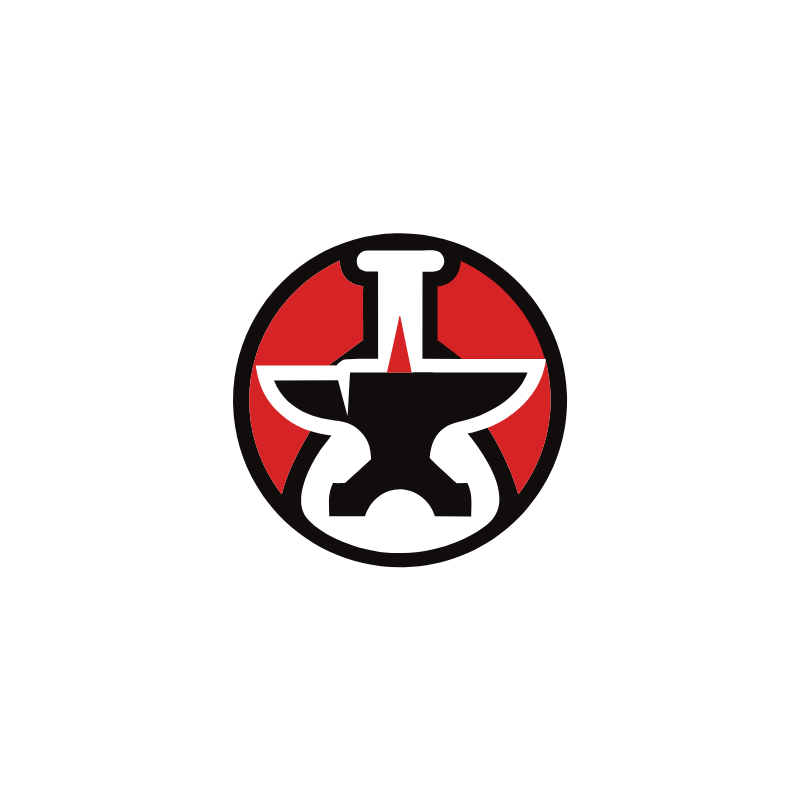
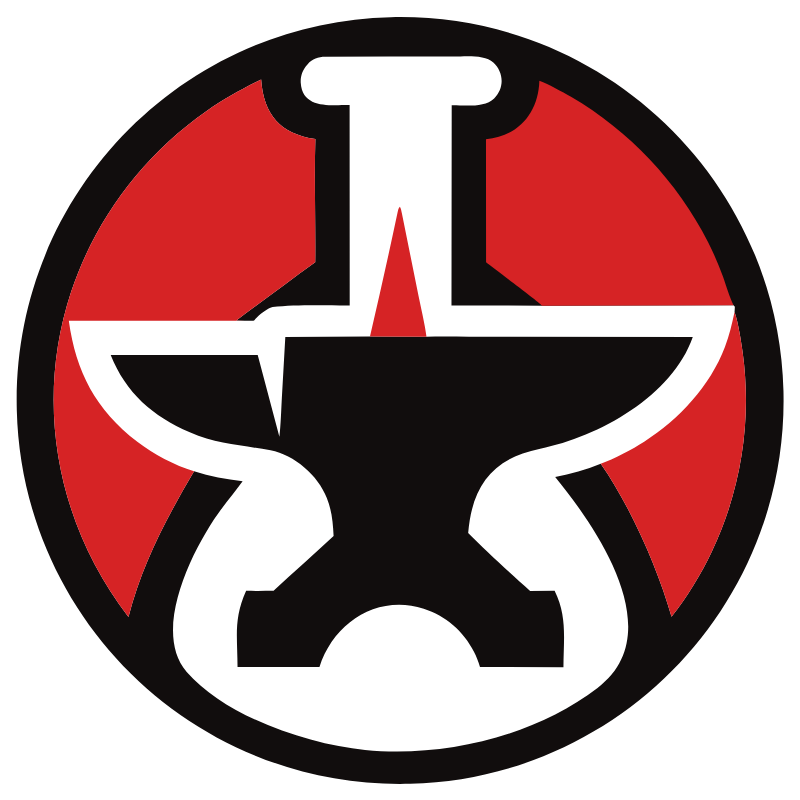
Add PlayForge Labs wordmark and lockups; fix mark padding
Wordmark set in Chakra Petch (SIL OFL), PLAY 400 / FORGE 700 so the
compound name reads as two ideas with emphasis on FORGE. All glyphs are
outlined to paths, so the files carry no font dependency.

8 wordmark + 8 lockup variants: stacked/inline x ondark/onlight x
neutral/red LABS. Red LABS works on either ground; the neutral must match
the ground, since white LABS is invisible on light.

In the stacked lockup LABS is tracked to span exactly the width of
PLAYFORGE. The track is solved arithmetically in makewordmark.py rather
than eyeballed, so it survives a change of type or size.

Also fixes a defect in the previously committed mark: the generated SVG
places the disc at r=428 inside a 2048 viewBox, so the disc filled only
~42% of the frame and every avatar rendered as a small badge floating in
whitespace. Added -tight variants cropping the viewBox to the disc (~96%
fill) and re-rendered all avatar PNGs from them.

Generators committed alongside the output so every derived file can be
rebuilt: makewordmark.py (outlining) and makelockup.py (composition).

Claude-Session: https://claude.ai/code/session_01VQpikmwb7K7sP9jWmUW1g1

diff --git a/brand/tools/makewordmark.py b/brand/tools/makewordmark.py
@@ -1,0 +1,110 @@
+#!/usr/bin/env python3
+"""Build the PlayForge Labs wordmark as OUTLINED SVG (no font dependency).
+
+Type: Chakra Petch (SIL Open Font License). PLAY=400, FORGE=700, LABS=600-ish
+(set from the 700 master, optically tracked). Outlining glyphs into logo
+artwork is permitted under the OFL; the result is artwork, not a font.
+
+Usage: python3 tools/makewordmark.py <regular.ttf> <bold.ttf> <outdir>
+"""
+import sys, os
+from fontTools.ttLib import TTFont
+from fontTools.pens.svgPathPen import SVGPathPen
+from fontTools.pens.boundsPen import BoundsPen
+
+RED, BLACK, WHITE = '#D62325', '#110D0D', '#FFFFFF'
+
+class Face:
+    def __init__(self, path):
+        self.f = TTFont(path)
+        self.gs = self.f.getGlyphSet()
+        self.cmap = self.f.getBestCmap()
+        self.upem = self.f['head'].unitsPerEm
+
+    def run(self, text, size, track=0.0):
+        """Return (list of (d, x_offset), advance_width) in SVG px at `size`."""
+        s = size / self.upem
+        out, x = [], 0.0
+        for ch in text:
+            g = self.cmap[ord(ch)]
+            pen = SVGPathPen(self.gs)
+            self.gs[g].draw(pen)
+            d = pen.getCommands()
+            if d.strip():
+                out.append((d, x))
+            x += self.gs[g].width + track * self.upem
+        return out, x * s, s
+
+    def ink_bounds(self, text):
+        bp = BoundsPen(self.gs)
+        x = 0
+        lo, hi = None, None
+        for ch in text:
+            g = self.cmap[ord(ch)]
+            b = BoundsPen(self.gs); self.gs[g].draw(b)
+            if b.bounds:
+                y0, y1 = b.bounds[1], b.bounds[3]
+                lo = y0 if lo is None else min(lo, y0)
+                hi = y1 if hi is None else max(hi, y1)
+        return lo or 0, hi or 0
+
+def emit(runs, w, h, pad=0.0):
+    """runs: list of (paths, scale, dx, dy, fill)"""
+    body = []
+    for paths, s, dx, dy, fill in runs:
+        for d, gx in paths:
+            body.append(f'<path d="{d}" fill="{fill}" transform="translate({dx + gx*s:.2f},{dy:.2f}) scale({s:.5f},{-s:.5f})"/>')
+    vb = f'{-pad:.2f} {-pad:.2f} {w+pad*2:.2f} {h+pad*2:.2f}'
+    return (f'<svg xmlns="http://www.w3.org/2000/svg" viewBox="{vb}" '
+            f'width="{w+pad*2:.0f}" height="{h+pad*2:.0f}">' + ''.join(body) + '</svg>')
+
+def build(reg, bold, outdir):
+    R, B = Face(reg), Face(bold)
+    SIZE = 200.0
+    _, capy1 = B.ink_bounds('FORGE')
+    cap = capy1 * (SIZE / B.upem)          # cap height in px
+
+    for ground, maintone in (('ondark', WHITE), ('onlight', BLACK)):
+        for labsname, labstone in (('neutral', maintone), ('red', RED)):
+            # ---- stacked ----
+            play, wplay, s1 = R.run('PLAY', SIZE)
+            forge, wforge, s2 = B.run('FORGE', SIZE)
+            # LABS is justified to the exact width of PLAYFORGE so the two
+            # lines lock as one unit. Track is solved, not guessed.
+            LS = SIZE * 0.335
+            target = wplay + wforge
+            base_paths, base_w, s3 = B.run('LABS', LS)
+            solved = (target - base_w) / (len('LABS') - 1) / LS
+            labs, wlabs, s3 = B.run('LABS', LS, solved)
+            wlabs -= solved * LS           # drop trailing track
+            gap = SIZE * 0.085
+            baseline = cap
+            lbase = baseline + LS * 0.92 + gap
+            total_w = max(wplay + wforge, wlabs)
+            total_h = lbase
+            svg = emit([(play, s1, 0, baseline, maintone),
+                        (forge, s2, wplay, baseline, maintone),
+                        (labs, s3, 1.0, lbase, labstone)], total_w, total_h, pad=SIZE*0.04)
+            open(os.path.join(outdir, f'wordmark-stacked-{ground}-{labsname}.svg'), 'w').write(svg)
+
+            # ---- inline ----
+            IS = SIZE
+            play2, wp2, p2s = R.run('PLAY', IS)
+            forge2, wf2, f2s = B.run('FORGE', IS)
+            LS2, LT2 = IS * 0.42, 0.26
+            labs2, wl2, l2s = B.run('LABS', LS2, LT2)
+            wl2 -= LT2 * LS2
+            gap2 = IS * 0.30
+            _, capy_small = B.ink_bounds('LABS')
+            cap_small = capy_small * (LS2 / B.upem)
+            base2 = cap                      # shared cap-height baseline
+            x_labs = wp2 + wf2 + gap2
+            svg2 = emit([(play2, p2s, 0, base2, maintone),
+                         (forge2, f2s, wp2, base2, maintone),
+                         (labs2, l2s, x_labs, base2, labstone)],
+                        x_labs + wl2, cap, pad=SIZE*0.04)
+            open(os.path.join(outdir, f'wordmark-inline-{ground}-{labsname}.svg'), 'w').write(svg2)
+    print('wrote 8 wordmark files to', outdir)
+
+if __name__ == '__main__':
+    build(*sys.argv[1:4])

diff --git a/brand/tools/makelockup.py b/brand/tools/makelockup.py
@@ -1,0 +1,46 @@
+#!/usr/bin/env python3
+"""Compose mark + wordmark into lockup SVGs using nested <svg> elements,
+so neither source is re-derived and both stay editable.
+
+Gap is 0.22 x mark width. Mark height matches the wordmark block height.
+Usage: python3 tools/makelockup.py <branddir>
+"""
+import os, re, sys
+
+def parts(path):
+    s = open(path).read()
+    m = re.search(r'viewBox="([^"]+)"', s)
+    vb = m.group(1)
+    inner = s[s.index('>', s.index('<svg')) + 1:].rsplit('</svg>', 1)[0]
+    x, y, w, h = [float(v) for v in vb.split()]
+    return vb, inner, w, h
+
+def build(brand):
+    wm_dir = os.path.join(brand, 'wordmark')
+    out_dir = os.path.join(brand, 'lockup')
+    os.makedirs(out_dir, exist_ok=True)
+    marks = {'ondark': os.path.join(brand, 'mark', 'mark-full-ondark-tight.svg'),
+             'onlight': os.path.join(brand, 'mark', 'mark-full-tight.svg')}
+    n = 0
+    for ground, mpath in marks.items():
+        mvb, minner, mw, mh = parts(mpath)
+        for layout in ('stacked', 'inline'):
+            for labs in ('neutral', 'red'):
+                wpath = os.path.join(wm_dir, f'wordmark-{layout}-{ground}-{labs}.svg')
+                if not os.path.exists(wpath):
+                    continue
+                wvb, winner, ww, wh = parts(wpath)
+                M = wh                      # mark height == wordmark block height
+                gap = M * 0.22
+                W, H = M + gap + ww, max(M, wh)
+                svg = (f'<svg xmlns="http://www.w3.org/2000/svg" viewBox="0 0 {W:.2f} {H:.2f}" '
+                       f'width="{W:.0f}" height="{H:.0f}">'
+                       f'<svg x="0" y="{(H-M)/2:.2f}" width="{M:.2f}" height="{M:.2f}" viewBox="{mvb}">{minner}</svg>'
+                       f'<svg x="{M+gap:.2f}" y="{(H-wh)/2:.2f}" width="{ww:.2f}" height="{wh:.2f}" viewBox="{wvb}">{winner}</svg>'
+                       f'</svg>')
+                open(os.path.join(out_dir, f'lockup-{layout}-{ground}-{labs}.svg'), 'w').write(svg)
+                n += 1
+    print(f'wrote {n} lockup files to {out_dir}')
+
+if __name__ == '__main__':
+    build(sys.argv[1])

diff --git a/brand/README.md b/brand/README.md
@@ -18,13 +18,17 @@ simplified small cut. Use the right one for the size:
 
 | Size | File |
 |---|---|
-| >= 64px | `mark/mark-full.svg` (light bg) / `mark-full-ondark.svg` (dark bg) |
+| >= 64px | `mark/mark-full-tight.svg` (light bg) / `mark-full-ondark-tight.svg` (dark bg) |
 | <= 48px | `mark/mark-small.svg` / `mark-small-ondark.svg` |
 
 The on-dark variants exist because the black outer ring disappears against a
 dark background; they carry a white ring instead.
 
-Geometry: viewBox 2048x2048, disc centre (1024,1024), radius 428.
+Geometry: the generated source has viewBox 2048x2048 with the disc at centre
+(1024,1024), radius 428 — i.e. the disc fills only ~42% of the frame. The
+`-tight` variants crop the viewBox to the disc (~96% fill) and are what every
+avatar, badge and lockup is rendered from. Use the tight variants; the
+uncropped originals are kept only as the untouched source.
 
 ### Rendered sizes
 `avatar-twitch-800`, `avatar-kick-128`, `discord-icon-512`, `avatar-ondark-800`
@@ -50,7 +54,40 @@ Chromium (Playwright):
 
     node brand/tools/rendersvg.js <in.svg> <out.png> <size> <light|dark|none>
 
+## Wordmark
+
+Type: **Chakra Petch** (SIL Open Font License — cleared for commercial use
+including merch). `PLAY` is weight 400, `FORGE` weight 700; the break makes
+the compound name read as its two ideas, with emphasis landing on FORGE.
+
+**All type is outlined to paths — these files carry no font dependency.**
+Nobody needs Chakra Petch installed to open, render or print them.
+
+### Variants (8 wordmark + 8 lockup)
+- Layout: `stacked` (two lines) or `inline` (one line)
+- Ground: `ondark` (white type) or `onlight` (black type)
+- LABS: `neutral` (matches the type) or `red` (#D62325)
+
+Red LABS works on either ground. The neutral MUST match the ground —
+white LABS on a light background is invisible.
+
+In the stacked lockup, `LABS` is tracked so it spans exactly the width of
+`PLAYFORGE`. That track is solved arithmetically in `tools/makewordmark.py`,
+not eyeballed, so it stays correct if the type ever changes.
+
+### Clear space and minimum size
+- Clear space on all sides: at least the cap height of `FORGE`.
+- Stacked lockup: do not use below 200px wide. Inline: not below 240px.
+- Below those sizes use the mark alone (`mark/mark-small.svg`).
+
+## Regenerating
+
+    python3 tools/makewordmark.py <ChakraPetch-Regular.ttf> <ChakraPetch-Bold.ttf> wordmark/
+    python3 tools/makelockup.py .
+
+The TTFs are not vendored; fetch them from Google Fonts. The outlined SVGs
+are the deliverable, so this is only needed if the type or tracking changes.
+
 ## Still open
-- Wordmark (must be set in real licensed type, not image-generated)
 - Mascot bust crop, emote set, alpha overlay plate
-- Formal type pairing
+- Body typeface to pair with Chakra Petch for panels and captions
